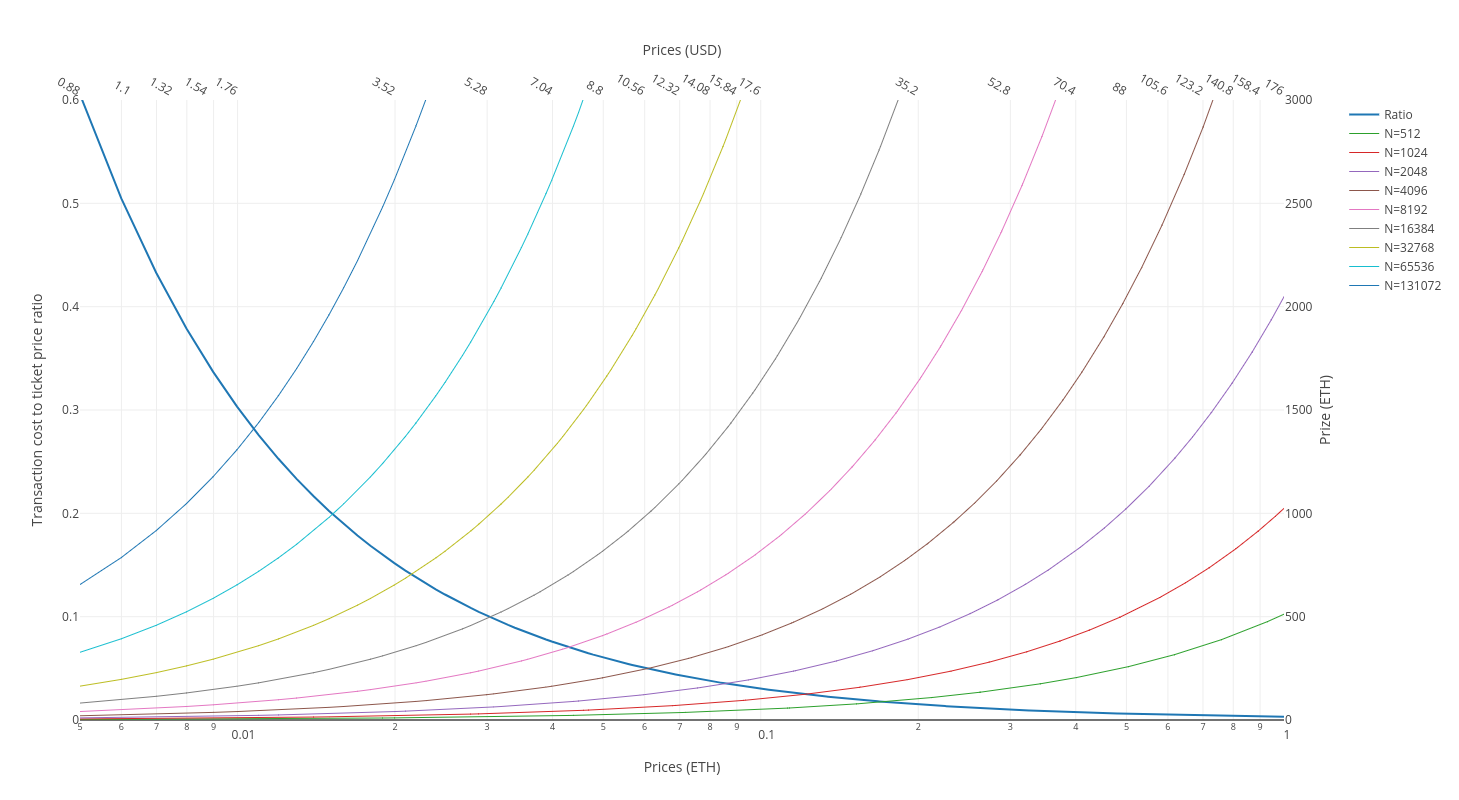
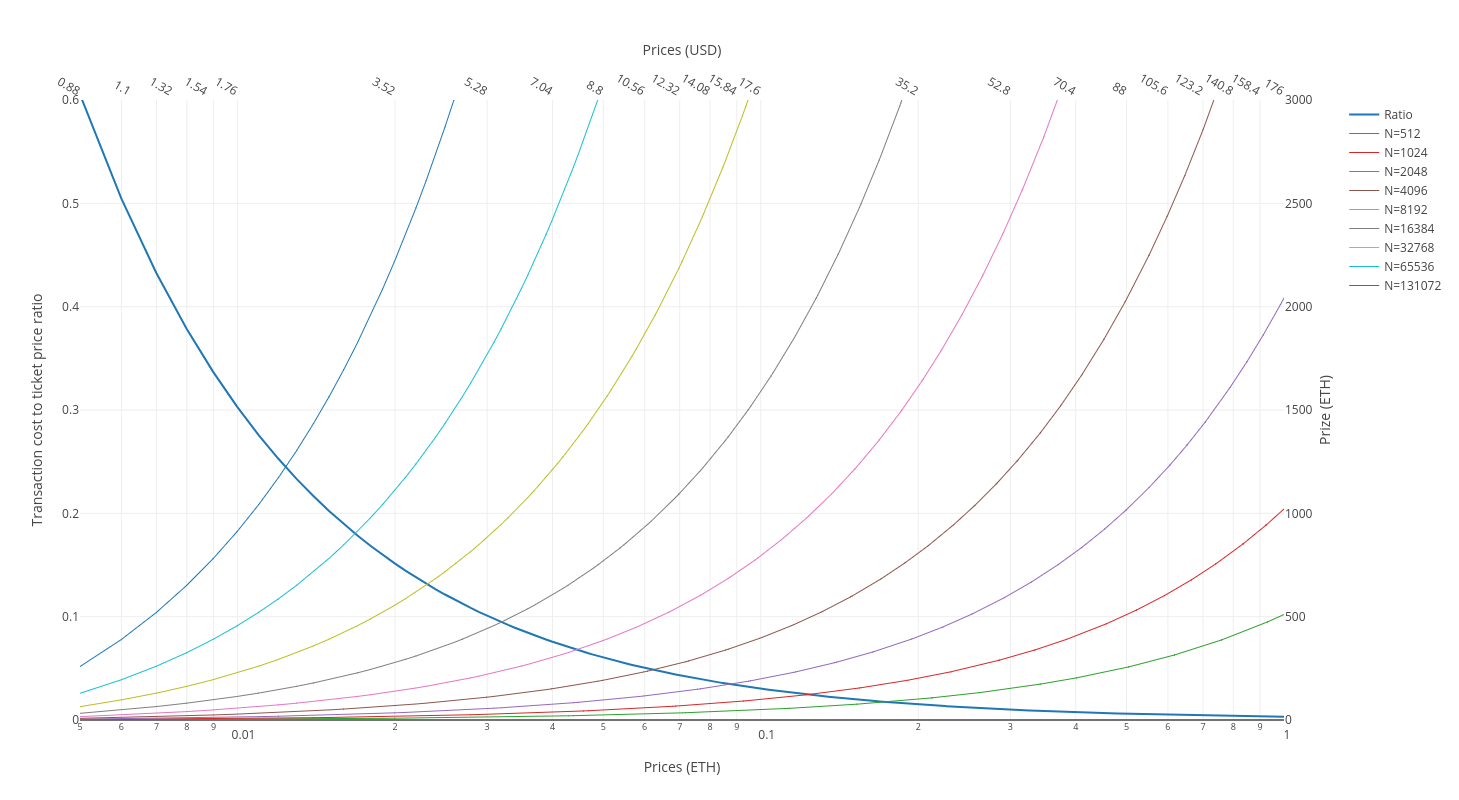
Update charts to account for organizer fee

diff --git a/inc/4-results/5-scalability.tex b/inc/4-results/5-scalability.tex
@@ -1,12 +1,13 @@
 \section{Scalability}
 \label{sec:scalability}
 
-It's common for lotteries to have millions of participants. Their large scale is an important characteristic, so it's natural to explore the scalability of our implementation. While the Ethereum platform has no problem with having connections to participants all over the world, it has a limited amount of transactions that can be processed per time unit. Even if transaction costs can be overcome by making them low relative to ticket prices, the limit on transaction throughput will stay the same. The stakes involved in the lottery will also get higher the more participants join. This fact might create incentives for miners to censor transactions and is covered in Section \ref{sec:censorship}.
+It's common for lotteries to have millions of participants. Their large scale is an important characteristic, so it's natural to explore the scalability of our implementation. While the Ethereum platform has no problem with having any amount of connections to participants all over the world, it has a limited amount of transactions that can be processed per time unit. Even if transaction costs can be overcome by making them low relative to ticket prices, the limit on transaction throughput will stay the same. The stakes involved in the lottery will also get higher the more participants join. This fact might create incentives for miners to censor transactions as described in Section \ref{sec:censorship}. 
+Both the limits on transaction throughput and the security exposure of a higher prize will put a limit on the scalability of the lottery. The former is a consequence of the limited resources on a global blockchain, while the latter is due to the possibility of an attack, and is thus a matter of security. The scalability of the lottery will be analyzed from both perspectives below.
 
 \subsection{Transaction throughput}
 
 Our lottery has clearly defined limits for the amount of transactions that need to be made for each participant. The amount of transactions of each type and its average gas usage is listed in \ref{tab:gas-usage}. Setting up the lottery requires $2N$ transactions, each participant joining takes one transaction, playing each match takes at most $4$ transactions, and the winner needs a single transaction to withdraw the prize. So the maximum amount of transactions for a successful lottery will be $7N-1$.  
-The time interval in which the transactions need to be made is important, as the intensity of transaction demand will vary during the lifecycle of the lottery. We expect a ticket purchasing period that lasts for several days where the demand for transactions will not be high per time unit. When the matches on the first level can be played, we have $N/2$ matches that all need to be interacted with at the same time. If the time interval between match phases of these matches is too low, the blockchain will not be able to handle all the transactions that need to be made. The demand for transactions after the first match will exponentially decrease for each level as the amount of matches is halved for each level in the tournament tree.
+The time interval in which the transactions need to be made is important, as the intensity of transaction demand will vary during the lifecycle of the lottery. We expect a ticket purchasing period that lasts for several days where the demand for transactions will not be high per time unit. When the matches on the first level can be played, we have $\frac{N}{2}$ matches that all need to be interacted with at the same time. If the time interval between match phases of these matches is too low, the blockchain will not be able to handle all the transactions that need to be made. The demand for transactions after the first match will exponentially decrease for each level as the amount of matches is halved for each level in the tournament tree.
 
 The amount of participants is $2^L$ and there are $2^{l-1}$ matches for each level if we count $l$ from $L$ at the first level matches to $1$ for the final match. The commit phase and reveal phase for each match require two transactions each. The amount of transactions needed for each phase at each level will then be $txs\_phase_{l}=2 \cdot 2^{l-1}=2^l$ – one for each remaining player. Ethereum has a transaction throughput capacity of some amount of transactions per block $tpb$. Since blocks are mined on average at a fixed rate, transactions per block is equivalent to transactions per time unit.
 Each phase in a match lasts for a number of blocks $td$ which is set when each match contract is deployed. For it to be theoretically possible to perform all the transactions for each match, $td$ must be set so that $td > \frac{2^{l}}{tpb}$.
@@ -61,14 +62,14 @@ N & td & td in s & td in m & td in h \\ \hline
 \hline
 
 N & td & time in s & time in m & time in h \\ \hline
-256 & 73 & 1095 & 18,3 & 0,30 \\ \hline
-1024 & 279 & 4185 & 69,8 & 1,16 \\ \hline
-4096 & 1100 & 16500 & 275,0 & 4,58 \\ \hline
-16384 & 4378 & 65670 & 1094,5 & 18,24 \\ \hline
-65536 & 17487 & 262305 & 4371,8 & 72,86 \\ \hline
-131072 & 34964 & 524460 & 8741,0 & 145,68 \\ \hline
-262144 & 69917 & 1048755 & 17479,3 & 291,32 \\ \hline
-1048576 & 279634 & 4194510 & 69908,5 & 1165,14 \\ \hline
+256 & 73 & 1095 & 18.3 & 0.30 \\ \hline
+1024 & 279 & 4185 & 69.8 & 1.16 \\ \hline
+4096 & 1100 & 16500 & 275.0 & 4.58 \\ \hline
+16384 & 4378 & 65670 & 1094.5 & 18.24 \\ \hline
+65536 & 17487 & 262305 & 4371.8 & 72.86 \\ \hline
+131072 & 34964 & 524460 & 8741.0 & 145.68 \\ \hline
+262144 & 69917 & 1048755 & 17479.3 & 291.32 \\ \hline
+1048576 & 279634 & 4194510 & 69908.5 & 1165.14 \\ \hline
 
 \end{tabular}
 \end{table}
@@ -81,14 +82,15 @@ There are plans for Ethereum to increase the number of transactions it can handl
 
 \subsection{Transaction costs and max prize}
 
-Due to the size of the prize increasing linearly with the number of participants, a censorship attack by miners gets more profitable the more participants there are, which puts a limit on scalability. Even if a censorship attack is unlikely to succeed, it cannot be ignored when it can give high rewards to dishonest miners. Since the lottery prize is decided by the ticket price as well as the number of participants, the ticket price can be set so low that the total prize is not high enough to encourage manipulation by miners. The ticket price is however bounded to minimum value where the transaction costs for participating exceed the ticket price itself. Using the transaction costs for setting up and playing a dual match lottery found in Section \ref{sec:gas}, various charts illustrate the scalability of our implementation of the lottery.
+Due to the size of the prize increasing linearly with the number of participants, a censorship attack by miners gets more profitable the more participants there are, which puts a limit on scalability. Even if a censorship attack is unlikely to succeed, it cannot be ignored when it can give high rewards to dishonest miners. Since the lottery prize is decided by the ticket price as well as the number of participants, the ticket price can be set so low that the total prize is not high enough to encourage manipulation by miners. The ticket price, however, is bounded to a minimum value where the transaction costs for playing the lottery get prohibitively high compared to the ticket cost. Using a gas price of 1.5 gwei and the gas usage for setting up and playing a dual match lottery found in Section \ref{sec:gas}, various charts illustrate the scalability of our implementation of the lottery.
 
-Figure \ref{fig:cost-ratio-chart} shows the ratio of the ticket price going to transaction costs as a function of number of participants and a max tolerable prize. Figure \ref{fig:prize-chart} show the prize for the lottery for a given number of participants and ratio of transactions costs to ticket price. Both assume a gas price of 1.5 gwei.
-The charts show us the maximum scale of the lottery under different conditions for maximum tolerable prize and ticket price going to transaction costs. With the generous assumptions that the transaction costs can be as much as 40\% of the ticket price, and the maximum prize being 900 ether, this scalability limit approaches that of the above analysis of transaction throughput.
+% Talk about the math used in the charts
+The \emph{maximum prize} is a security parameter used in this analysis. A higher maximum prize exposes more value to be lost in case of a successful attack, so that the security decreases with a higher maximum prize. The lottery organizer and participants can judge what their tolerance for a max prize is, and we will operate with values up to 3000 ether for illustration. Another important variable is the \emph{transaction cost ratio}. This is the ratio of ticket price to transaction costs for setting up and playing a lottery, i.e. $r=\frac{gas\_usage \cdot gas\_price}{ticket\_price}$. The prize is also entirely dependent on the ticket price, as the calculations for simplicity's sake assume the organizer takes a fee equal to the transaction cost ratio, i.e. $prize=N \cdot ticket\_price \cdot r$ where $N$ is the number of participants. The ticket price is implicitly used in the charts, as any transaction cost ratio is mapped bijectively to a price when the transaction costs are fixed.
 
-Figure \ref{fig:price-chart} shows the transaction cost to ticket price ratio on the left y-axis which the thick blue line plots. The right y-axis shows the total prize for a given ticket price and is plotted by multiple thin lines that each represent a specific number of participants. The chart gives some idea of which tickets prices can be used for different amounts of participants and different maximum prizes. For instance, if a cost ratio of 0.1 is required, the thick blue line indicates that the ticket price will be 0.3 ETH. At that price, only lotteries with less than $32768=2^{15}$ will have a prize of less than 1000 ETH. If we start from the other direction and consider a lottery with $8192=2^{13}$ participants, plotted by the thin pink line, it can handle ticket prices of slightly more than 0.1 ETH if the prize is to be less than 1000 ETH, and a ticket price of 0.06 if the prize is to be below 500 ETH. Furthermore, it shows that lotteries with few participants can handle quite high ticket prices without risking too much exposure by a high prize, while lotteries with more than $2^{16}$ participants can barely handle ticket prices so low that the cost ratio is nearly prohibitive unless a very large prize is acceptable.
+Figure \ref{fig:cost-ratio-chart} shows the ratio of the ticket price going to transaction costs as a function of number of participants and a max tolerable prize. Figure \ref{fig:prize-chart} show the prize for the lottery for a given number of participants and ratio of transactions costs to ticket price.
+The charts show us the maximum scale of the lottery under different conditions for maximum tolerable prize and ticket price going to transaction costs. With the assumptions that the transaction costs can be as much as 20\% of the ticket price, and the maximum prize being about 1500 ether, this scalability limit in terms of number of participants approaches that of the analysis of transaction throughput.
 
-The calculations in the charts do not account for the organizer probably taking some portion of the prize as a fee. Accounting for that would reduce the total prize, but would correspondingly increase the cost of buying tickets from the participants' perspective.
+Figure \ref{fig:price-chart} shows the transaction cost to ticket price ratio on the left y-axis which the thick blue line plots. The right y-axis shows the total prize for a given ticket price and is plotted by multiple thin lines that each represent a specific number of participants. The chart gives some idea of which tickets prices can be used for different amounts of participants and different maximum prizes. For instance, if a cost ratio of 0.1 is required, the thick blue line indicates that the ticket price will be 0.03 ETH. At that price, only lotteries with less than $32768=2^{15}$ will have a prize of less than 1000 ETH. If we start from the other direction and consider a lottery with $8192=2^{13}$ participants, plotted by the thin pink line, it can handle ticket prices of slightly more than 0.1 ETH if the prize is to be less than 1000 ETH, and a ticket price of 0.06 if the prize is to be below 500 ETH. Furthermore, it shows that lotteries with few participants can handle quite high ticket prices without risking too much exposure by a high prize, while lotteries with more than $2^{16}$ participants can barely handle ticket prices so low that the cost ratio is nearly prohibitive unless a very large prize is acceptable.
 
 
 \begin{figure}[htbp]

diff --git a/inc/4-results/1-gas-usage.tex b/inc/4-results/1-gas-usage.tex
@@ -31,14 +31,15 @@ Table \ref{tab:gas-usage} is a list of transactions made in a simulation with 25
 \centering
 \caption{Organizer gas usage. Single match contract.}
 \label{tab:org-gas-usage-single}
-\begin{tabular}{|l|l|l|l|l|l|l|}
+\begin{tabular}{|l|l|l|l|l|l|l|l|}
 \hline
 
-N & Gas & ETH & USD & Gas / N & ETH / N & USD / N \\ \hline
-32 & 80023408 & 0.120 & 21.13 & 2500732 & 0.003751 & 0.660 \\ \hline
-64 & 161466448 & 0.242 & 42.63 & 2522913 & 0.003784 & 0.666 \\ \hline
-128 & 324354704 & 0.487 & 85.63 & 2534021 & 0.003801 & 0.669 \\ \hline
-256 & 650139920 & 0.975 & 171.64 & 2539609 & 0.003809 & 0.670 \\ \hline
+N & Gas & ETH & USD & Gas / N & ETH / N & USD / N & $\Delta$ Gas / N \\ \hline
+32 & 80023408 & 0.120 & 21.13 & 2500732 & 0.003751 & 0.660 &  \\ \hline
+64 & 161466448 & 0.242 & 42.63 & 2522913 & 0.003784 & 0.666 & 22182 \\ \hline
+128 & 324354704 & 0.487 & 85.63 & 2534021 & 0.003801 & 0.669 & 11108 \\ \hline
+256 & 650139920 & 0.975 & 171.64 & 2539609 & 0.003809 & 0.670 & 5588 \\ \hline
+512 & 1301701456 & 1.953 & 343.65 & 2542386 & 0.003814 & 0.671 & 2777 \\ \hline
 
 \end{tabular}
 \end{table}
@@ -47,14 +48,15 @@ N & Gas & ETH & USD & Gas / N & ETH / N & USD / N \\ \hline
 \centering
 \caption{Total gas usage. Single match contract.}
 \label{tab:total-gas-usage-single}
-\begin{tabular}{|l|l|l|l|l|l|l|}
+\begin{tabular}{|l|l|l|l|l|l|l|l|}
 \hline
 
-N & Gas & ETH & USD & Gas / N & ETH / N & USD / N \\ \hline
-32 & 90297000 & 0.135 & 23.84 & 2821781 & 0.004233 & 0.745 \\ \hline
-64 & 182203802 & 0.273 & 48.10 & 2846934 & 0.004270 & 0.752 \\ \hline
-128 & 366020720 & 0.549 & 96.63 & 2859537 & 0.004289 & 0.755 \\ \hline
-256 & 733661484 & 1.100 & 193.69 & 2865865 & 0.004299 & 0.757 \\ \hline
+N & Gas & ETH & USD & Gas / N & ETH / N & USD / N & $\Delta$ Gas / N \\ \hline
+32 & 90297000 & 0.135 & 23.84 & 2821781 & 0.004233 & 0.745 &  \\ \hline
+64 & 182203802 & 0.273 & 48.10 & 2846934 & 0.004270 & 0.752 & 25153 \\ \hline
+128 & 366020720 & 0.549 & 96.63 & 2859537 & 0.004289 & 0.755 & 12602 \\ \hline
+256 & 733661484 & 1.100 & 193.69 & 2865865 & 0.004299 & 0.757 & 6328 \\ \hline
+512 & 1468940796 & 2.203 & 387.80 & 2869025 & 0.004304 & 0.757 & 3160 \\ \hline
 
 \end{tabular}
 \end{table}
@@ -63,14 +65,15 @@ N & Gas & ETH & USD & Gas / N & ETH / N & USD / N \\ \hline
 \centering
 \caption{Organizer gas usage. Two types of match contracts.}
 \label{tab:org-gas-usage-dual}
-\begin{tabular}{|l|l|l|l|l|l|l|}
+\begin{tabular}{|l|l|l|l|l|l|l|l|}
 \hline
 
-N & Gas & ETH & USD & Gas / N & ETH / N & USD / N \\ \hline
-32 & 53690344 & 0.081 & 14.17 & 1677823 & 0.002517 & 0.443 \\ \hline
-64 & 107956984 & 0.162 & 28.50 & 1686828 & 0.002530 & 0.445 \\ \hline
-128 & 216490200 & 0.325 & 57.15 & 1691330 & 0.002537 & 0.447 \\ \hline
-256 & 433556696 & 0.650 & 114.46 & 1693581 & 0.002540 & 0.447 \\ \hline
+N & Gas & ETH & USD & Gas / N & ETH / N & USD / N & $\Delta$ Gas / N \\ \hline
+32 & 53690344 & 0.081 & 14.17 & 1677823 & 0.002517 & 0.443 &  \\ \hline
+64 & 107956984 & 0.162 & 28.50 & 1686828 & 0.002530 & 0.445 & 9005 \\ \hline
+128 & 216490200 & 0.325 & 57.15 & 1691330 & 0.002537 & 0.447 & 4502 \\ \hline
+256 & 433556696 & 0.650 & 114.46 & 1693581 & 0.002540 & 0.447 & 2251 \\ \hline
+512 & 867690392 & 1.302 & 229.07 & 1694708 & 0.002542 & 0.447 & 1127 \\ \hline
 
 \end{tabular}
 \end{table}
@@ -79,14 +82,15 @@ N & Gas & ETH & USD & Gas / N & ETH / N & USD / N \\ \hline
 \centering
 \caption{Total gas usage. Two types of match contracts.}
 \label{tab:total-gas-usage-dual}
-\begin{tabular}{|l|l|l|l|l|l|l|}
+\begin{tabular}{|l|l|l|l|l|l|l|l|}
 \hline
 
-N & Gas & ETH & USD & Gas / N & ETH / N & USD / N \\ \hline
-32 & 63896706 & 0.096 & 16.87 & 1996772 & 0.002995 & 0.527 \\ \hline
-64 & 128557218 & 0.193 & 33.94 & 2008707 & 0.003013 & 0.530 \\ \hline
-128 & 257880692 & 0.387 & 68.08 & 2014693 & 0.003022 & 0.532 \\ \hline
-256 & 516523956 & 0.775 & 136.36 & 2017672 & 0.003027 & 0.533 \\ \hline
+N & Gas & ETH & USD & Gas / N & ETH / N & USD / N & $\Delta$ Gas / N \\ \hline
+32 & 63896706 & 0.096 & 16.87 & 1996772 & 0.002995 & 0.527 &  \\ \hline
+64 & 128557218 & 0.193 & 33.94 & 2008707 & 0.003013 & 0.530 & 11934 \\ \hline
+128 & 257880692 & 0.387 & 68.08 & 2014693 & 0.003022 & 0.532 & 5986 \\ \hline
+256 & 516523956 & 0.775 & 136.36 & 2017672 & 0.003027 & 0.533 & 2979 \\ \hline
+512 & 1033816570 & 1.551 & 272.93 & 2019173 & 0.003029 & 0.533 & 1501 \\ \hline
 
 \end{tabular}
 \end{table}
@@ -97,6 +101,6 @@ The dual match design compared to the single match design uses 50\% less gas to 
 
 As was expected, the gas usage increases linearly with the number of participants. Even though the gas per participant also increases by a minuscule amount as the number of participants grow, this amount goes towards zero with more participants. For simulating the entire lifecycle of a lottery, this can be explained by the \texttt{deposit()} function which keeps expanding a dynamic array as players join. We will use the measurements for dual matches from Table \ref{tab:gas-usage} in calculations later in this chapter to analyze ticket pricing and scalability. By using the amount of transactions necessary of each type, we see that the gas usage for a lottery of $N$ players can be expressed as for just setting up the lottery $\frac{3391547 \cdot N}{2} - 561412$ and $\frac{4065677 \cdot N}{2} - 785375$ for setting up and playing the entire lottery.
 
-We see that by far most gas is spent on deploying each individual match contract. This cost was significantly decreased by splitting the match contracts into two types, the \texttt{FirstLevelMatch} and \texttt{InternalMatch}. This is because each variable and each bit of bytecode contributes to the gas usage when deploying contracts. Decreasing the number of methods, decreasing the number and size of variables, and decreasing the number of instructions, i.e. lines of code, will decrease the gas usage. Since each match contract is not interacted with much – at most four times, two commits and two reveals – it seems wasteful to spend so much gas on deploying them on the blockchain permanently. This is a well-known issue, and it is possible to deduplicate common behaviour by using patterns involving \emph{library contracts} and \emph{proxy contracts}. \cite{lu_solidity_2018} demonstrate that gas usage for deploying contracts can decrease as much as 50\% by using these patterns. It could also be possible to do away with the dedicated match contracts completely, and handle everything in the master contract, but we leave that to future work or a practical implementation.
+The bulk of the transaction costs of a lottery is setting up all the contracts, which must be done by the lottery organizer. The setup cost is 84\% of the total transaction costs for the 512 player simulation for dual match contracts. We see that by far most gas is spent on deploying each individual match contract. This cost was significantly decreased by splitting the match contracts into two types, the \texttt{FirstLevelMatch} and \texttt{InternalMatch}. This is because each variable and each bit of bytecode contributes to the gas usage when deploying contracts. Decreasing the number of methods, decreasing the number and size of variables, and decreasing the number of instructions, i.e. lines of code, will decrease the gas usage. Since each match contract is not interacted with much – at most four times, two commits and two reveals – it seems wasteful to spend so much gas on deploying them on the blockchain permanently. This is a well-known issue, and it is possible to deduplicate common behaviour by using patterns involving \emph{library contracts} and \emph{proxy contracts}. \cite{lu_solidity_2018} demonstrate that gas usage for deploying contracts can decrease as much as 50\% by using these patterns. It could also be possible to do away with the dedicated match contracts completely, and handle everything in the master contract, but we leave that to future work or a practical implementation.
 
-While the price of ether and by extension gas is known to fluctuate heavily in fiat terms, we choose to primarily consider the cost of running the lottery only in the context of ether and gas price, even though we will also mention the price in USD in some cases to provide context. The transaction costs depend entirely on gas usage and gas price, and can be made an arbitrarily low fraction of the ticket price if we can set the ticket price arbitrarily high. The gas price is also known for fluctuating somewhat in terms of ether, but it is simply a result of market demand for resources on the EVM. The gas price is not a fixed price, as there is essentially a bid and ask market with a spread, where transactors are bidders and miners are askers. By bidding with a low gas price, it means the probability of the transaction being included in a block is low, as miners are likely to include transactions with a higher gas price.
+While the price of ether and by extension gas is known to fluctuate heavily in fiat currency terms, we choose to primarily consider the cost of running the lottery only in the context of ether and gas price, even though we will also mention the price in USD in some cases to provide context. The transaction costs depend entirely on gas usage and gas price, and can be made an arbitrarily low fraction of the ticket price if we can set the ticket price arbitrarily high. The gas price is also known for fluctuating somewhat in terms of ether, but it is simply a result of market demand for resources on the EVM. The gas price is not a fixed price, as there is essentially a bid and ask market with a spread, where transactors are bidders and miners are askers. By bidding with a low gas price, it means the probability of the transaction being included in a block is low, as miners are likely to include transactions with a higher gas price.

diff --git a/inc/5-discussion/_index.tex b/inc/5-discussion/_index.tex
@@ -8,7 +8,7 @@
 
 We were generally able to use existing tools to our advantage for development and simulation. Truffle was used to compile and manage smart contracts. We used Truffle's testing environment and smart contract abstraction to successfully run unit tests and simulations on our code. Ganache is a program that starts an Ethereum RPC server and blockchain on your local computer. This allows one to quickly deploy contracts, make transactions, mock behaviour, and measure performance without using something out of the developer's control such as the Ethereum mainnet or even a testnet.
 
-By limiting ourselves to using the smart contract abstraction that comes with Truffle, we were not able to overcome some shortcomings when simulating and testing. Truffle's smart contract abstraction is designed to be used in web clients of dApps that interact with the Ethereum blockchain. Since each interaction with the blockchain involves an RPC, such interactions are handled with Javascript promises that facilitates making asynchronous applications. For every transaction RPC that is made, Truffle will wait until it is confirmed in the blockchain before it performs the next RPC. This limits how we can use Truffle when simulating, as a simulation may involve thousands of transactions, many of which can be made in parallel. In our code, we have to wait for each transaction to be confirmed before the next one is made. As our simulations require some transactions to be made in specific order, such as making commitments before revealing secrets, we have to use promises in some cases. We could avoid this limitation by making all our transaction RPCs by using web3js directly, but that would involve a more complicated simulation program. However, our simulations using only Truffle could handle 256 participants in reasonable time, and there was not much interesting to discover by increasing this number, we did not spend time on developing more sophisticated simulations. 
+By limiting ourselves to using the smart contract abstraction that comes with Truffle, we were not able to overcome some shortcomings when simulating and testing. Truffle's smart contract abstraction is designed to be used in web clients of dApps that interact with the Ethereum blockchain. Since each interaction with the blockchain involves an RPC, such interactions are handled with Javascript promises that facilitates making asynchronous applications. For every transaction RPC that is made, Truffle will wait until it is confirmed in the blockchain before it performs the next RPC. This limits how we can use Truffle when simulating, as a simulation may involve thousands of transactions, many of which can be made in parallel. In our code, we have to wait for each transaction to be confirmed before the next one is made. As our simulations require some transactions to be made in specific order, such as making commitments before revealing secrets, we have to use promises in some cases. We could avoid this limitation by making all our transaction RPCs by using web3js directly, but that would involve a more complicated simulation program. However, our simulations using only Truffle could handle 512 participants in reasonable time, and there was not much interesting to discover by increasing this number, we did not spend time on developing more sophisticated simulations. 
 
 Our smart contracts are highly dependent on timing conditions. The time limits are specified in fields that denominate block height. E.g. a match contract is initialized with three limits: \texttt{tCommit}, \texttt{tReveal}, and \texttt{tPlay}. These are essential for security in a real deployment, but testing and simulating with many time conditions can be hard. In our testing environment we run a local blockchain using Ganache. Due to the issue with Truffle discussed above, we have to enable auto mining with Ganache, so that a new block is generated with each transaction. This is not how the blockchain would behave in a live situation, so instead of altering our smart contract code to fit into our testing environment, we chose to ignore time limits when testing and simulating. We could configure a much more complicated testing environment where we can control which transactions are mined which which block heights etc., but chose to not spend time doing it as we were nonetheless able to run useful simulations and tests. 
 

diff --git a/inc/4-results/6-analysis.tex b/inc/4-results/6-analysis.tex
@@ -7,7 +7,7 @@ Based on the implementation choices of the lottery and the above results and dis
 
 What is gained by the interactivity of the scheme is that the lottery will complete as long as just one player follows the rules. Deposits are not needed as it seems a player has nothing to gain by not following the rules. A collusion of participants will not be able to predict the outcome of the randomness other than the outcome of the matches between players in the collusion. Due to secrets being committed to and not revealed until both players of a match have finalized their commitments, a collusion will not have any advantage over a single honest player.
 
-We found that it is the cost of setting up the lottery by deploying contracts that is the most significant transaction cost. Since this cost directly influences the minimum viable ticket price, reducing the transaction cost of setting up the lottery would make the lottery capable of having more participants. It is likely that reducing the transaction cost can be done by using different design patterns in the smart contracts. Simply optimizing the length of the variables will also save some transaction costs. The current implementation only uses \texttt{uint256} types for numbers, but most of the numbers will never be so big that they need 256 bits to represent them.
+We found that it is the cost of setting up the lottery by deploying contracts that is the most significant transaction cost. Since this cost directly influences the minimum viable ticket price, reducing the transaction cost of setting up the lottery would make the lottery capable of having more participants. It is likely that reducing the transaction cost can be done by using different design patterns in the smart contracts. Simply optimizing the length of the variables may also save some transaction costs. The current implementation only uses \texttt{uint256} types for numbers, but most of the numbers will never be so big that they need 256 bits to represent them. However, reducing variable length by itself won't save gas, as the EVM operate with a 32-byte (256 bits) word size. Gas could be saved by packing variables of lesser length into structs of 32 bytes, but we leave this optimization to future work.
 
 The number of transactions needed to play the lottery has consequences both for the scalability of the lottery and the total transaction cost. This number can be reduced by playing the digital coin tosses \emph{off-chain}. Off-chain means that some part of a protocol is handled between the players over another communication channel than directly on the blockchain. Consider the digital coin toss after the commitments are made. As the outcome at that point is determined if both players reveal their secrets, it's not actually necessary to do that on the blockchain. The players could simply reveal their secrets to each other in private, and then one player would not have to make an actual transaction, as the losing party would not gain anything but still pay a transaction fee. If only the winner makes a reveal transaction, they will win regardless of what the loser does. Doing this requires no change in the smart contracts from what they are in the current implementation. 
 
@@ -27,4 +27,4 @@ A possible vulnerability in censorship of transactions was discovered. Even thou
 
 A possible way of mitigating a censorship attack is to annul the result of the tournament if the winner won a certain fraction of their matches by forfeiture. This could possibly do some collateral damage in that an honest winner could risk being suspected of cheating. It could also make the off-chain negotiation mentioned earlier in this section impractical. 
 
-\todo{Not much is known about censorship attacks, and AFAIK, there is no historical precedent yet. We only know it's possible, so it should be a concern for everyone developing on a blockchain, but it's very hard to arrive at some hard numbers related to it.}
+However, increasing censorship resistance is a too broad topic to be in the scope of this thesis. We operate with the common assumption that a blockchain system such as Ethereum is censorship resistant to a certain degree, and encourage lottery organizers and participants to judge the risk by the size of the lottery prize.

diff --git a/inc/4-results/4-censorship.tex b/inc/4-results/4-censorship.tex
@@ -1,7 +1,7 @@
 \section{Cost of a censorship attack}
 \label{sec:censorship}
 % More at risk: high exposure; cost of attack: disruption cost
-The most concerning attack is probably one where miners tactically censor the transactions of one participant's opponents through the entire lottery. If a participant is not able to make their commit and reveal transactions, they lose that match. From the miners' perspective, a block reorganization attack is risky and expensive, but a censorship attack is almost costless. This means that if a miner is completely unconcerned with keeping the network healthy, even a marginal bribe would make it worth to censor someone. One could counter a small bribe by increasing the gas price in a transaction, so that the miner will be paid more in transaction costs than what the bribe is worth, but a briber would still have an advantage, as the prize of a successful attack would fund their activity. 
+The most concerning attack is probably one where miners tactically censor the transactions of one participant's opponents through the entire lottery. If a participant is not able to make their commit and reveal transactions, they lose that match. From the miners' perspective, a block reorganization attack is risky and expensive as it might fail, but a censorship attack is almost costless for a powerful collusion of miners, as failing does not necessarily have a cost. This means that if a miner is completely unconcerned with keeping the network healthy, even a marginal bribe would make it worth to censor someone. One could counter a small bribe by increasing the gas price in a transaction, so that the miner will be paid more in transaction costs than what the bribe is worth, but a briber would still have an advantage, as the gains of a successful attack would fund their activity. 
 
 In practice, not many miners are willing to take bribes for censorship as they are either idealistic or have an interest in maintaining the reputation of the blockchain as a secure computing platform. At least the latter point is the case if miners have skin in the game of the blockchain, such as owning mining hardware specific for that chain or having large holdings of the currency of that blockchain. However, it's still useful to assess the feasibility of a censorship attack, as very large bribes can change incentives.
 
